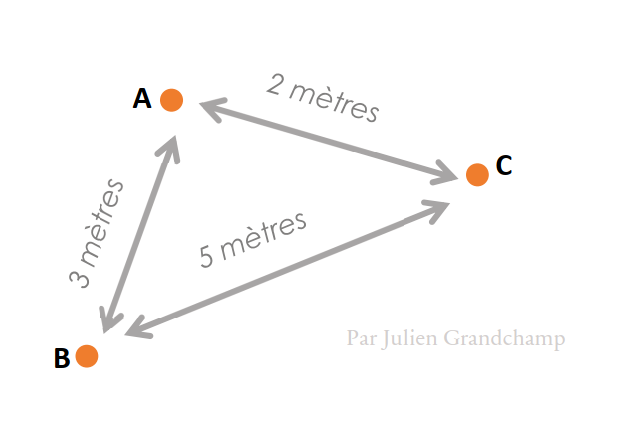
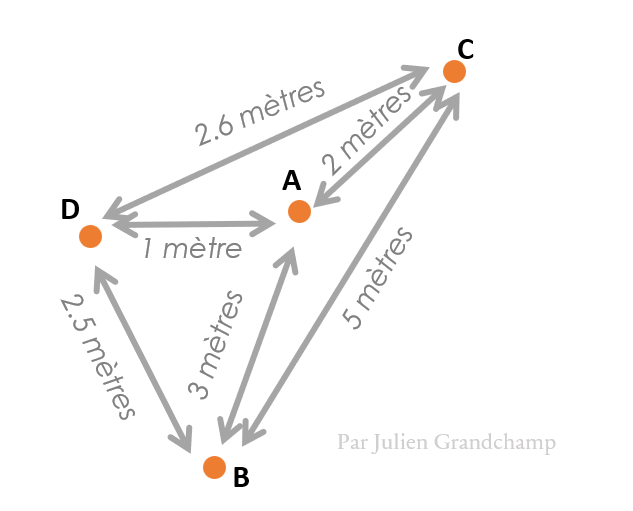
exemple

diff --git a/source/chapitre-03.md b/source/chapitre-03.md
@@ -6,7 +6,7 @@ William Rowan Hamilton posa l’une des première fois le problème du voyageur 
 > « Un voyageur de commerce doit visiter une et une seule fois un nombre fini de villes et revenir à son point d’origine. Trouvez l’ordre de visite des villes qui minimise la distance totale parcourue par le voyageur ».
 
 ## Introduction
-Cherchons à présent une méthode de résolution exacte un peu moins naïve et plus efficace. Pour cela, nous allons utiliser la **Procédure par Séparation et Évaluation**, abrégée par les initiales **PSE** et nommé **branch & bound** en anglais. C’est une méthode qui repose sur le parcours d’un arbre de recherche auquel on va couper la simulation dans certaines branches lorsqu’il est évident que ce n’est pas le chemin optimal. 
+Cherchons à présent une méthode de résolution exacte un peu moins naïve et plus efficace. Pour cela, nous allons utiliser la **Procédure par Séparation et Évaluation**, abrégée par les initiales **PSE** et nommé **branch & bound** en anglais. C’est une méthode qui repose sur le parcours d’un arbre de recherche auquel nous allons couper la simulation dans certaines branches lorsqu’il est évident que ce n’est pas le chemin optimal. 
 
 ## Notions de base
 Avant cela, il est important de définir certains termes qui vont avoir leur importance dans l’application de cette méthode :
@@ -15,7 +15,7 @@ Avant cela, il est important de définir certains termes qui vont avoir leur imp
 
     Une **borne inférieure** est une valeur qui est égale ou inférieure à la valeur de la meilleure solution possible. Dans le cas présent, il suffit pour l’obtenir d’additionner au trajet déjà effectué le poids des $N$ distances les plus proches entre deux villes. Même si cette solution a une grande probabilité de ne pas être réalisable, la valeur de la solution optimale ne pourra pas être plus petite que la borne inférieure. 
 
-    La **borne supérieure**, quant à elle, est une limite qu'aucune solution optimale ne pourra jamais dépasser. Dans ce cas, cette valeur est un trajet quelconque, car si on prend la mauvaise solution on obtient une valeur supérieure à celle qu’on recherche, et dans le cas généralement extrêmement rare où l’on obtient la bonne réponse, la bonne réponse n’est pas en-dessous de la borne supérieure choisie. Pour obtenir des résultats moins variables, on peut aussi utiliser des algorithmes approchés se basant sur des approximations.
+    La **borne supérieure**, quant à elle, est une limite qu'aucune solution optimale ne pourra jamais dépasser. Dans ce cas, cette valeur est un trajet quelconque, car nous obtenons dans la très grande majorité des cas (pour un grand nombre de ville) une valeur supérieure à celle qu’on recherche. Dans le cas généralement extrêmement rare où nous obtenons la bonne réponse, ce n'est pas un problème car cette dernière n’est pas en-dessous de la borne supérieure choisie. Pour obtenir des résultats moins variables, nous pouvons aussi utiliser des algorithmes approchés se basant sur des approximations.
 
 
 ## Formation d'un arbre de recherche
@@ -103,7 +103,7 @@ width: 80%
 ### Etapes à réaliser
 Le principe de la PSE est de couper l’exploration de l’arbre à la hauteur de certains nœuds afin de réduire la quantité nécessaire de calculs pour trouver la réponse. Pour savoir quand couper la simulation, nous procédons de la manière suivante :
 1. Calculer la borne supérieure en suivant un chemin au hasard ou par un algorithme approché. Cette borne est fixe, mais peut toutefois être actualisée lorsqu'un trajet plus court que ladite borne a été décelé.
-2. Explorer toutes les options pour le prochain embranchement, en calculant la borne inférieure pour chacune de ces options. Pour cela, on rajoute à la distance déjà parcourue les $x$ distances manquantes les plus courtes de l'embranchement.
+2. Explorer toutes les options pour le prochain embranchement, en calculant la borne inférieure pour chacune de ces options. Pour cela, nous rajoutons à la distance déjà parcourue les $x$ distances manquantes les plus courtes de l'embranchement.
 3. Couper les embranchements dont la borne inférieure est supérieure ou égale à la borne supérieure.
 4. Répéter les étapes 2, 3 et 4 jusqu'à ce que tous les embranchements soient complétés.
 5. Trouver le chemin le plus court parmi les configurations restantes.
@@ -132,7 +132,7 @@ On peut alors constuire l'arbre de recherche suivant:
 ```{figure} figures/schema_7.png
 ---
 align: center
-width: 60%
+width: 80%
 ---
 *L'arbre de recherche correspondant à la situation ci-dessus posée.*
 ```
@@ -141,4 +141,31 @@ width: 60%
 Dans cette notation, les chiffres en gras représentent la distance (souvent nommé "coût") entre deux noeuds. À partir de là, nous pouvons suivre la procédure décrite plus haut.
 
 #### Borne supérieure
-Il faut tout d'abord calculer la borne supérieure. Pour Cela,
+Il faut tout d'abord calculer la borne supérieure. Pour cela, prenons un chemin au hasard. Disons A,B,C,D et A. Nous avons alors $3+5+2.6+1=11.6$m. Le chemin optimal ne pourra pas être au dessus de cette limite arbitrairement fixée à $11.6$m.
+
+#### Calculer le prochain embranchement
+Dans le cadre de cet exemple, nous allons seulement calculer le trajet A, B, D, C, et A.
+
+Nous devons calculer la borne inférieure en additionnant à la distance entre A et B ($=$ 3m)les 3 valeurs minimales présentes dans cet embranchement (car nous avons 4 villes moins le B). Ainsi, la borne inférieure vaut $3+2.5+1+2=8.5$m.
+
+#### Comparer les bornes
+De cette manière, nous observons que la borne supérieure $>$ la borne inférieure car $11.6$m $>$ $8.5$m. Nous ne pouvons par conséquent pas rejeter cet embranchement. Par conséquent, nous devons continuer les démarches.
+
+#### Calculer le prochain embranchement
+Nous somme au noeud B du premier embranchement. Nous devons calculer la borne inférieure de l'ambranchement menant à la ville D. Nous avons parcouru A, B, D. Il nous reste deux villes à parcourir. 
+
+Borne inférieure $=$ distance parcourue + distance minimale
+
+Borne inférieure $= 3+2.5+1+2 = 8.5$m
+
+#### Comparer les bornes
+La borne supérieure est plus grande que la borne inférieure car $11.6>8.5$. Nous ne pouvons pas couper la simulation pour cette branche.
+
+#### Calculer le prochain embranchement
+Nous avons parcouru A, B, D. Nous nous dirigeons à présent vers C. La borne inférieure vaut la distance AB + BD + DC + la distance minimale existante. Nous obtenons alors $3+2.5+2.6+1=9.1$m
+
+#### Comparer les bornes
+$9.1\text{m}<11.6\text{m}$, par conséquent nous poursuivons les calculs. 
+
+#### Longueur total du trajet ABDCA
+Nous sommes obligé de prendre le dernier chemin restant, qui consiste à revenir au point de départ. Ainsi, le trajet vaut $3+2.5+2.6+2=10.1\text{m}$. Ce résultat ne nous sert à rien à présent, car il nous faut calculer tous les embranchements pour pouvoir le comparer aux trajets potentiellement optimaux obtenus, afin de savoir si le trajet ABDCA est le meilleur trajet ou non. En l'occurence, ce chemin est le plus optimal possible avec son inverse, ACDBA.
